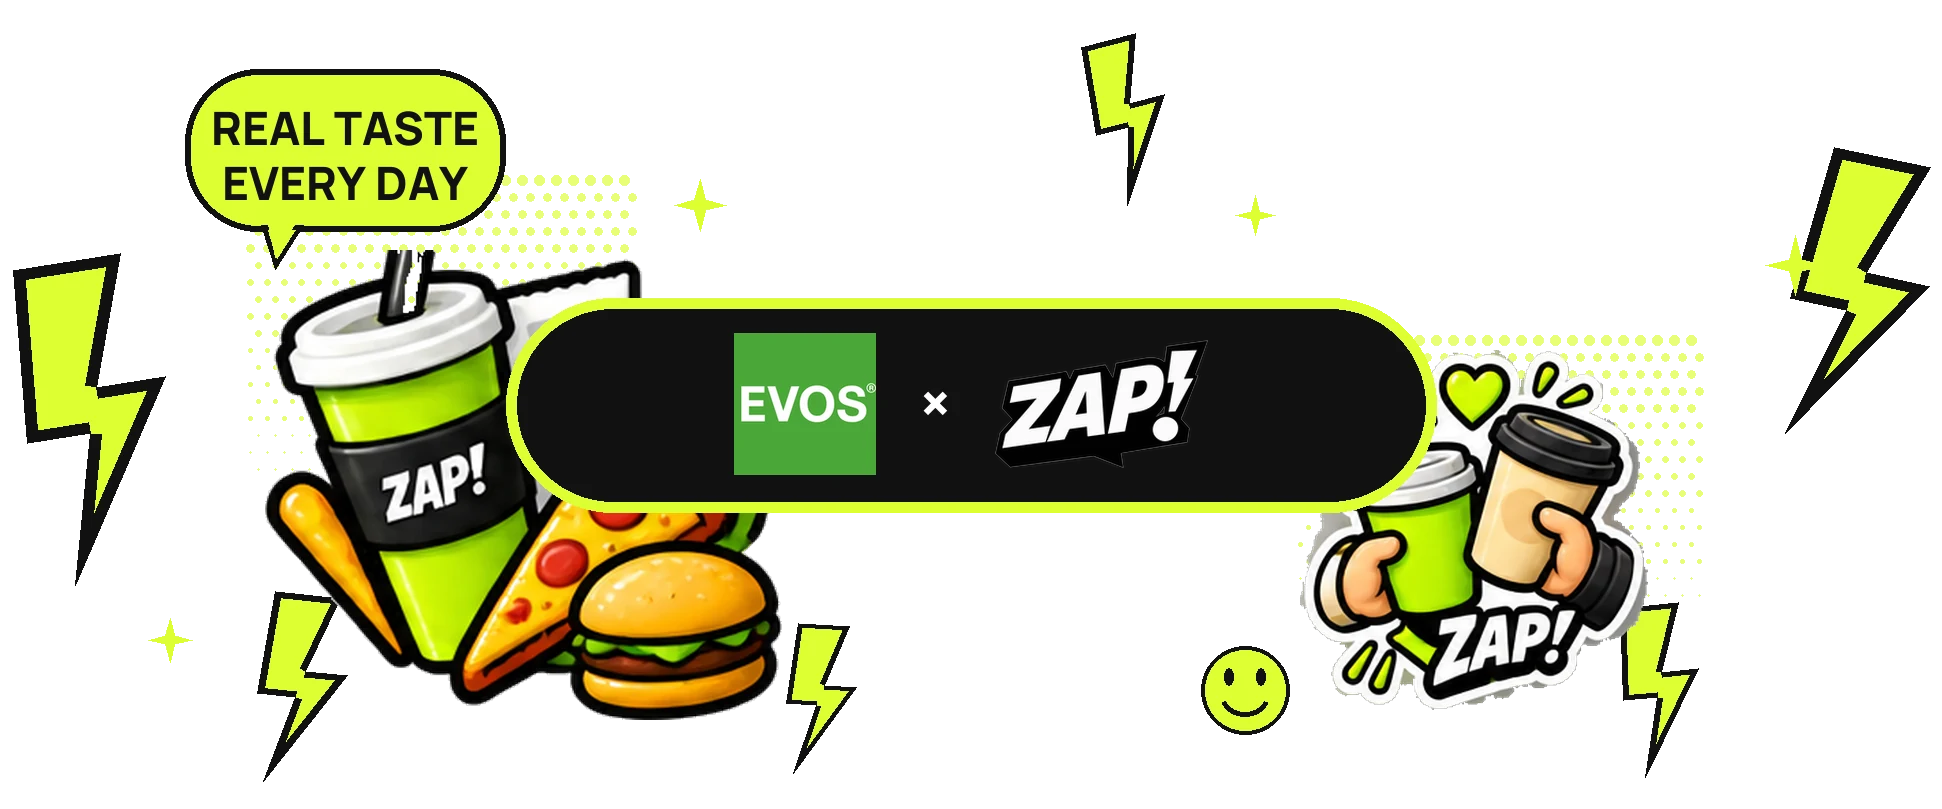
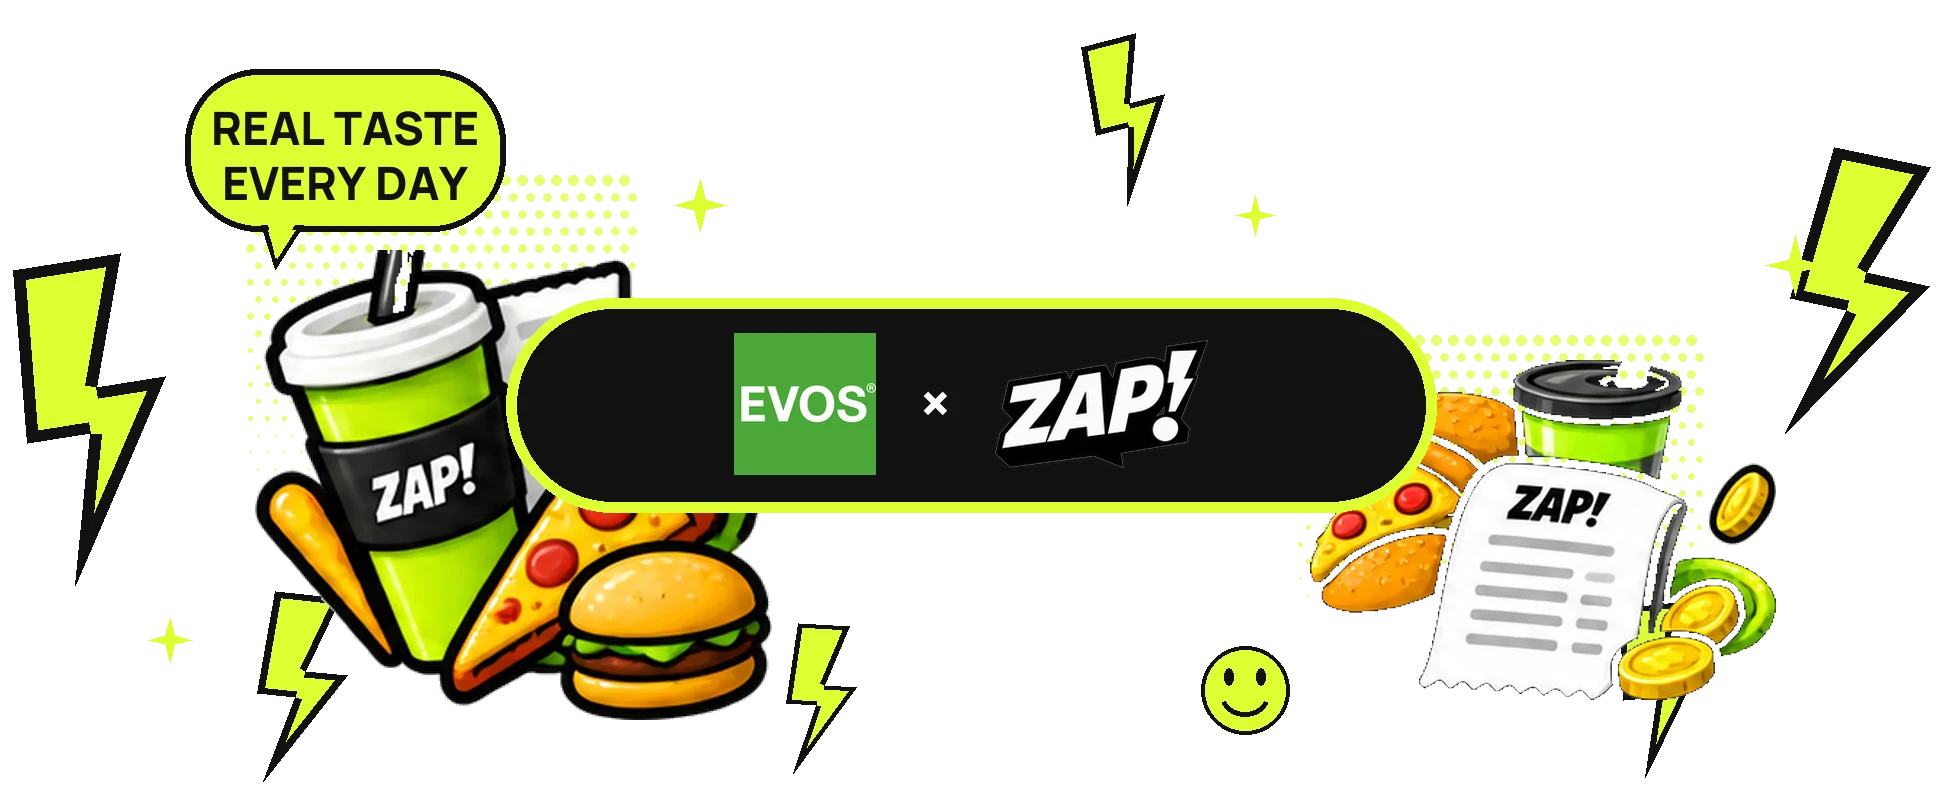
Баннеры: еда по профилю заведения — фастфуд, пицца, десерты, кофе
EVOS — фастфуд, Bellissimo — пицца, Safia — торты и выпечка, Bon — кофейня.
Раньше Safia и Bon делили одну кофейную пару, из-за чего кондитерская
выглядела кофейней, а два соседних слайда карусели — одним баннером.

Для EVOS добавлен второй фастфуд-набор с листа стикеров, чтобы обе стороны
баннера были про одну кухню.

Десерта в листах docs/product нет вообще — там фастфуд, пицца и кофе. Торт из
старого изометрического рендера не годится: он фотореалистичный и мелкий,
рядом с плоскими стикерами читается как чужеродная вставка. Поэтому кусок
торта и пончик нарисованы теми же средствами, что и остальная графика баннера
(tools/gen-dessert-sticker.py): плоская заливка, толстый чёрный контур, белая
обводка стикера. Зеркалить его можно — в отличие от стикеров из набора, в нём
нет вшитого «ZAP!».

Подписи приведены к профилю: Safia — CAKES & PASTRY, Bon — COFFEE SHOP
и «GOOD COFFEE GOOD MOOD».

Changed region(s): [[0.1236, 0.309, 0.4016, 0.8962], [0.6488, 0.4326, 0.9269, 0.8653]]

diff --git a/apps/mobile/tools/gen-dessert-sticker.py b/apps/mobile/tools/gen-dessert-sticker.py
@@ -1,0 +1,117 @@
+#!/usr/bin/env python3
+"""Стикер «десерт» для баннера Safia — кондитерская, а не кофейня.
+
+В листах стикеров docs/product выпечки нет вообще: там фастфуд, пицца и кофе.
+Брать торт из старого изометрического рендера нельзя — он фотореалистичный,
+мелкий, и рядом с плоскими стикерами читается как чужеродная вставка.
+Поэтому кусок торта и круассан нарисованы теми же средствами, что и остальная
+графика баннера: плоская заливка, толстый чёрный контур, белая обводка
+стикера, лаймовые искры.
+
+Запуск:  python3 tools/gen-dessert-sticker.py
+"""
+import os
+
+from PIL import Image, ImageDraw, ImageFilter
+
+ROOT = os.path.dirname(os.path.dirname(os.path.abspath(__file__)))
+OUT = os.path.join(ROOT, "tools", "banner-src", "dessert.png")
+
+# Рисуем крупно и уменьшаем — контуры получаются гладкими.
+S = 3
+W, H = 420 * S, 400 * S
+
+INK = (17, 17, 16, 255)
+LIME = (221, 255, 51, 255)
+WHITE = (255, 255, 255, 255)
+CREAM = (255, 243, 224, 255)
+SPONGE = (233, 184, 122, 255)
+JAM = (226, 74, 74, 255)
+CHOCO = (122, 74, 45, 255)
+PLATE = (245, 245, 242, 255)
+
+LW = 7 * S  # толщина чёрного контура
+
+
+def cake(d, x, y, w, h):
+    """Кусок торта сбоку: бисквит — джем — бисквит — крем, вишня сверху."""
+    # тарелка
+    d.ellipse([x - 26 * S, y + h - 16 * S, x + w + 26 * S, y + h + 22 * S],
+              fill=PLATE, outline=INK, width=LW)
+
+    layers = [(SPONGE, 0.30), (JAM, 0.12), (SPONGE, 0.28), (CREAM, 0.30)]
+    top = y + h
+    for color, frac in layers:
+        hh = h * frac
+        d.rectangle([x, top - hh, x + w, top], fill=color, outline=INK, width=LW)
+        top -= hh
+
+    # шапка крема — три волны
+    r = w / 6
+    for i in range(3):
+        cx = x + r + i * (w - 2 * r) / 2
+        d.ellipse([cx - r, top - r * 1.25, cx + r, top + r * 0.75],
+                  fill=CREAM, outline=INK, width=LW)
+
+    # вишня
+    cx, cy, cr = x + w / 2, top - r * 1.4, 17 * S
+    d.line([cx, cy - cr, cx + 12 * S, cy - cr - 26 * S], fill=INK, width=LW)
+    d.ellipse([cx - cr, cy - cr, cx + cr, cy + cr], fill=JAM, outline=INK, width=LW)
+
+
+def donut(d, cx, cy, r):
+    """Пончик: круг, розовая глазурь с потёками, дырка, лаймовая посыпка.
+
+    Круассан из дуг читался как бесформенное пятно — у пончика силуэт
+    однозначный, поэтому в плоском стиле он выигрывает.
+    """
+    GLAZE = (244, 166, 190, 255)
+    d.ellipse([cx - r, cy - r, cx + r, cy + r], fill=SPONGE, outline=INK, width=LW)
+    # глазурь — круг чуть меньше со «сползающими» каплями по низу
+    gr = r * 0.90
+    d.ellipse([cx - gr, cy - gr, cx + gr, cy + gr * 0.72], fill=GLAZE, outline=INK, width=LW)
+    for i in range(5):
+        dx = -gr * 0.72 + i * gr * 0.36
+        dr = gr * (0.20 if i % 2 else 0.27)
+        d.ellipse([cx + dx - dr, cy + gr * 0.40, cx + dx + dr, cy + gr * 0.40 + dr * 2],
+                  fill=GLAZE, outline=INK, width=LW)
+    # дырка
+    hr = r * 0.30
+    d.ellipse([cx - hr, cy - hr, cx + hr, cy + hr], fill=(0, 0, 0, 0))
+    d.ellipse([cx - hr, cy - hr, cx + hr, cy + hr], outline=INK, width=LW)
+    # посыпка
+    for dx, dy, a in [(-0.42, -0.36, 0), (0.30, -0.44, 1), (0.52, 0.02, 0),
+                      (-0.54, 0.06, 1), (0.06, -0.60, 1)]:
+        px, py = cx + gr * dx, cy + gr * dy
+        w, h = (13 * S, 5 * S) if a else (5 * S, 13 * S)
+        d.rounded_rectangle([px - w, py - h, px + w, py + h], radius=4 * S, fill=LIME)
+
+
+def sticker_outline(img, width=9, color=WHITE):
+    """Белая обводка вокруг всей фигуры — фирменный признак стикера."""
+    alpha = img.getchannel("A")
+    grown = alpha.filter(ImageFilter.MaxFilter(width * 2 + 1))
+    ring = Image.new("RGBA", img.size, color)
+    ring.putalpha(grown)
+    ring.alpha_composite(img)
+    return ring
+
+
+img = Image.new("RGBA", (W, H), (0, 0, 0, 0))
+d = ImageDraw.Draw(img)
+
+cake(d, 96 * S, 118 * S, 190 * S, 190 * S)
+donut(d, 332 * S, 226 * S, 72 * S)
+
+img = sticker_outline(img, width=9 * S)
+
+# Искры рисуем ПОСЛЕ обводки: попав под неё, они превращались в белые кляксы.
+d = ImageDraw.Draw(img)
+for x, y, r in [(52, 116, 17), (398, 104, 14), (38, 300, 13), (404, 306, 16), (200, 48, 15)]:
+    k = r * 0.2 * S
+    X, Y, R = x * S, y * S, r * S
+    d.polygon([(X, Y - R), (X + k, Y - k), (X + R, Y), (X + k, Y + k),
+               (X, Y + R), (X - k, Y + k), (X - R, Y), (X - k, Y - k)], fill=LIME)
+img = img.crop(img.getbbox())
+img.resize((img.width // S, img.height // S), Image.LANCZOS).save(OUT)
+print("dessert.png", Image.open(OUT).size)

diff --git a/apps/mobile/tools/gen-venue-banners.py b/apps/mobile/tools/gen-venue-banners.py
@@ -179,11 +179,13 @@ def build(name, logo, logo_h, food, caption):
     print(f"{name:12s} {os.path.getsize(out) // 1024} КБ")
 
 
-# Еда подобрана по кухне заведения: подставить бургер пиццерии — ровно та
-# небрежность, из-за которой баннер перестаёт читаться как «про это место».
+# Еда подобрана по кухне заведения: EVOS — фастфуд, Bellissimo — пицца,
+# Safia — кондитерская (торты и выпечка), Bon — кофейня. Подставить бургер
+# кондитерской — ровно та небрежность, из-за которой баннер перестаёт
+# читаться как «про это место».
 build(
     "evos", "brand/partners/evos-logo.png", 142,
-    food=[("food-combo.png", 470, 265, 250), ("coffee-duo.png", 360, 1300, 350)],
+    food=[("food-combo.png", 470, 255, 250), ("burger-set.png", 340, 1310, 360)],
     caption=["REAL TASTE", "EVERY DAY"],
 )
 
@@ -194,16 +196,13 @@ build(
 )
 
 build(
-    "safia", ("Safia", "CAFÉ & BAKERY"), 132,
-    food=[("coffee-duo.png", 450, 265, 250), ("stickers/theme-coffee.png", 390, 1320, 340)],
+    "safia", ("Safia", "CAKES & PASTRY"), 132,
+    food=[("dessert.png", 440, 265, 255), ("dessert.png", 330, 1330, 375, True)],
     caption=["FRESH BAKED", "DAILY"],
 )
 
 build(
-    "bon", ("Bon!", "BOULANGERIE · PÂTISSERIE"), 132,
-    # Кофейная пара та же, что у Safia: выпечки в наборе стикеров нет.
-    # Разводим порядком, масштабом и подписью, но НЕ зеркалом — в стикерах
-    # вшито «ZAP!», и отражённый он читается задом наперёд.
-    food=[("stickers/theme-coffee.png", 460, 255, 245), ("coffee-duo.png", 350, 1330, 355)],
-    caption=["FRESHLY BAKED", "EVERY DAY"],
+    "bon", ("Bon!", "COFFEE SHOP"), 132,
+    food=[("coffee-duo.png", 460, 255, 245), ("stickers/theme-coffee.png", 360, 1330, 350)],
+    caption=["GOOD COFFEE", "GOOD MOOD"],
 )
